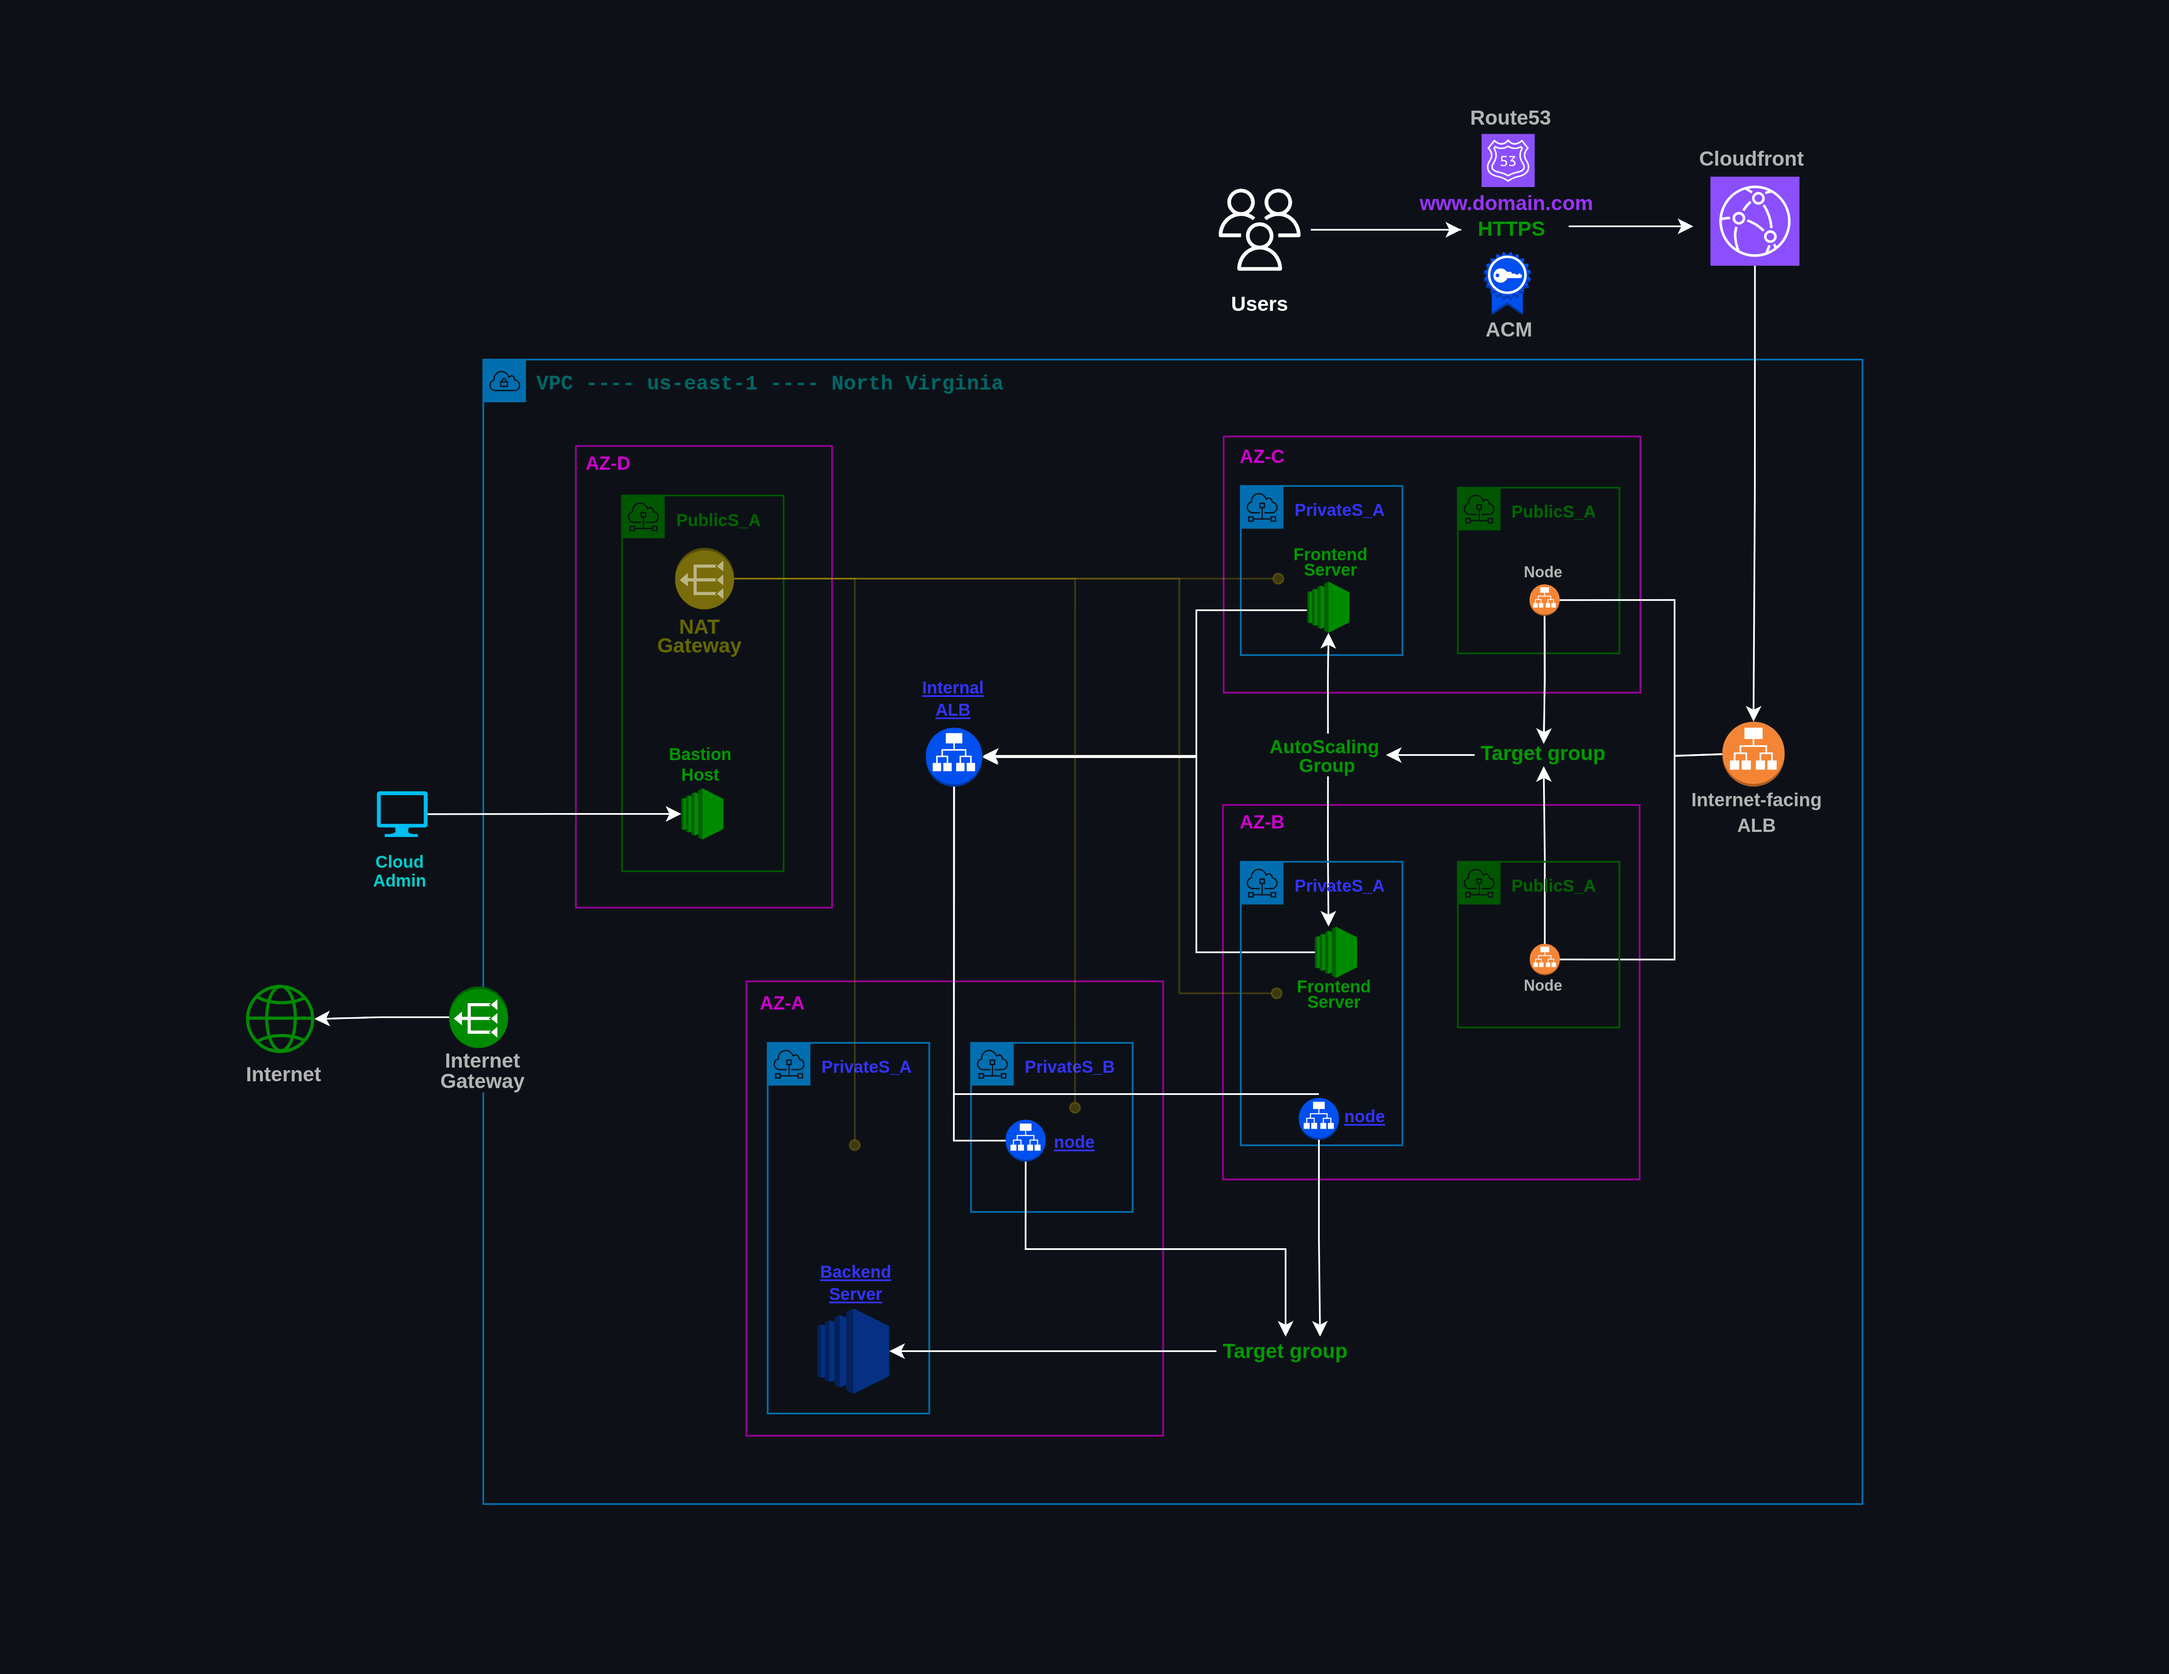
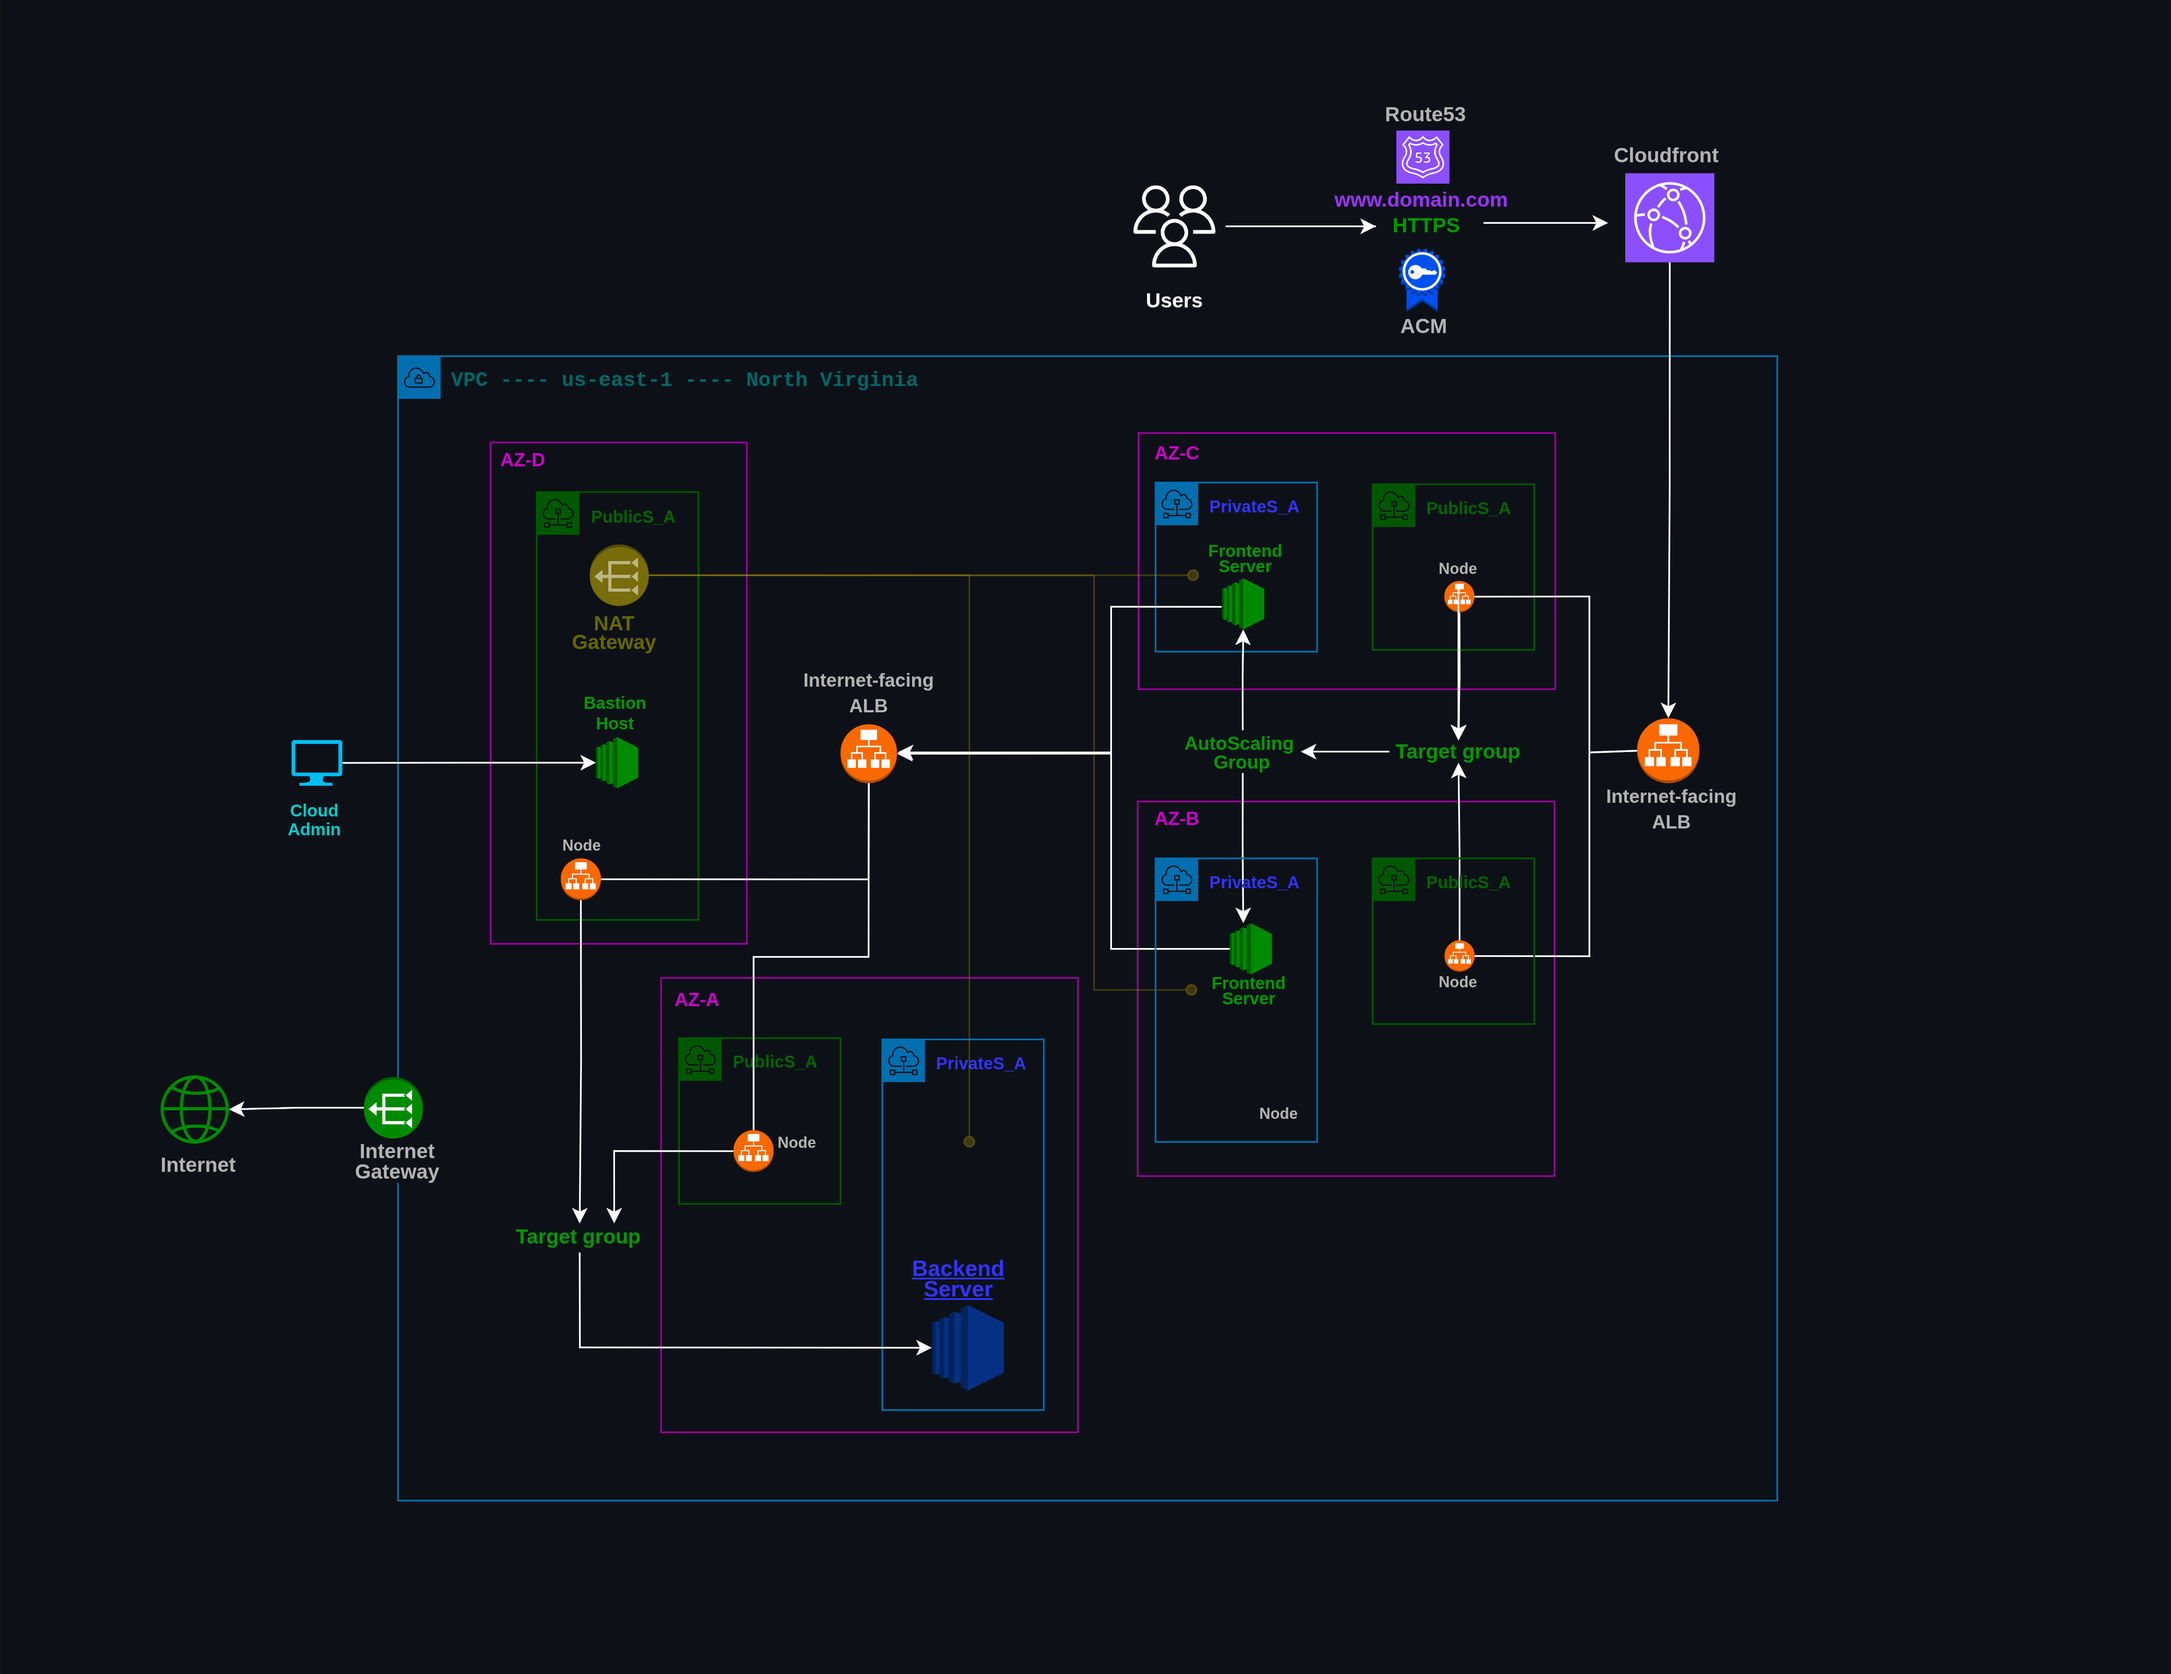
updated ports and security groups

diff --git a/deployend/documentation/how_to_run.md b/deployend/documentation/how_to_run.md
@@ -2,7 +2,7 @@
 
 ## Navigation
 
-- **[Home](../README.md)**
+- **[Home](../../README.md)**
 - **How to Run**
 - **[Setup Script for Ubuntu](./scripts/ubuntu_setup.sh)**
 - **[Files and Directories](./files_and_dirs.md)**
